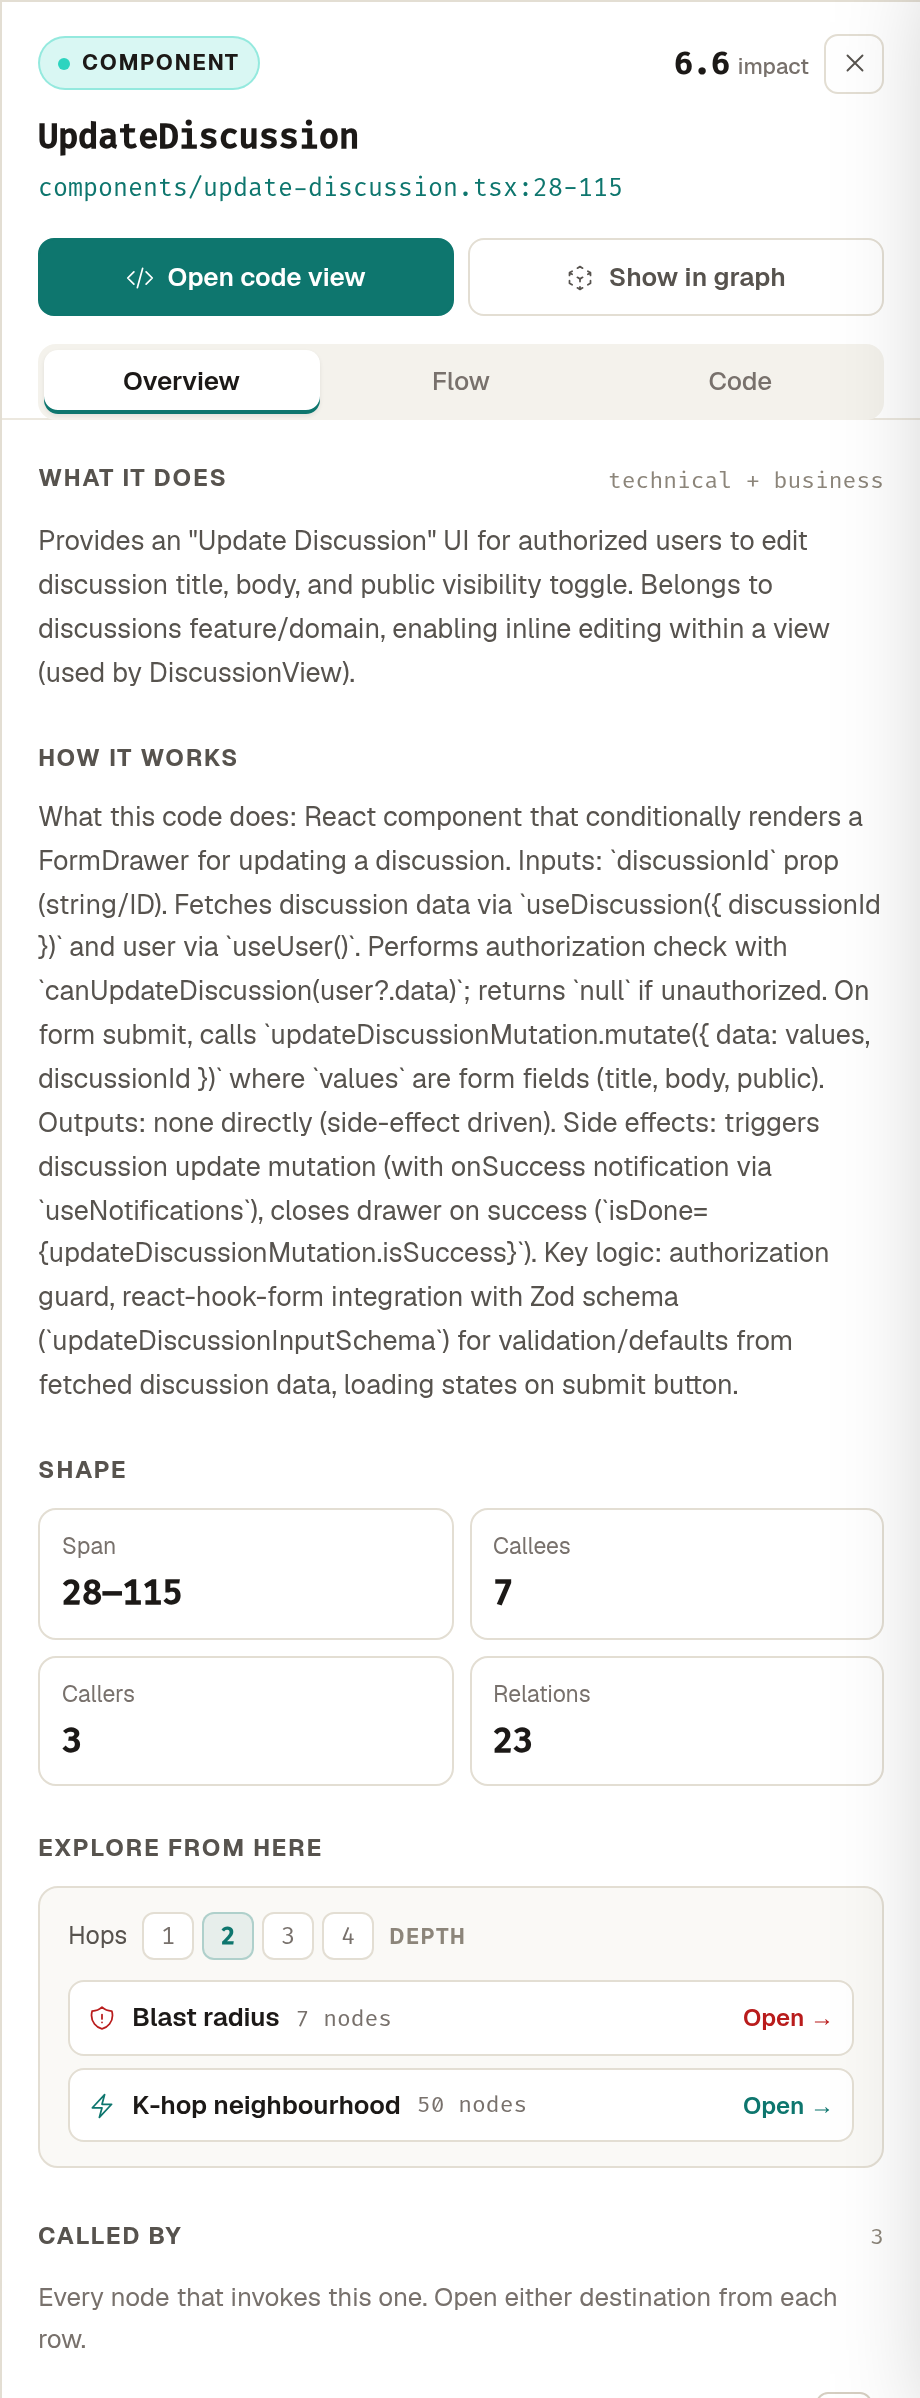
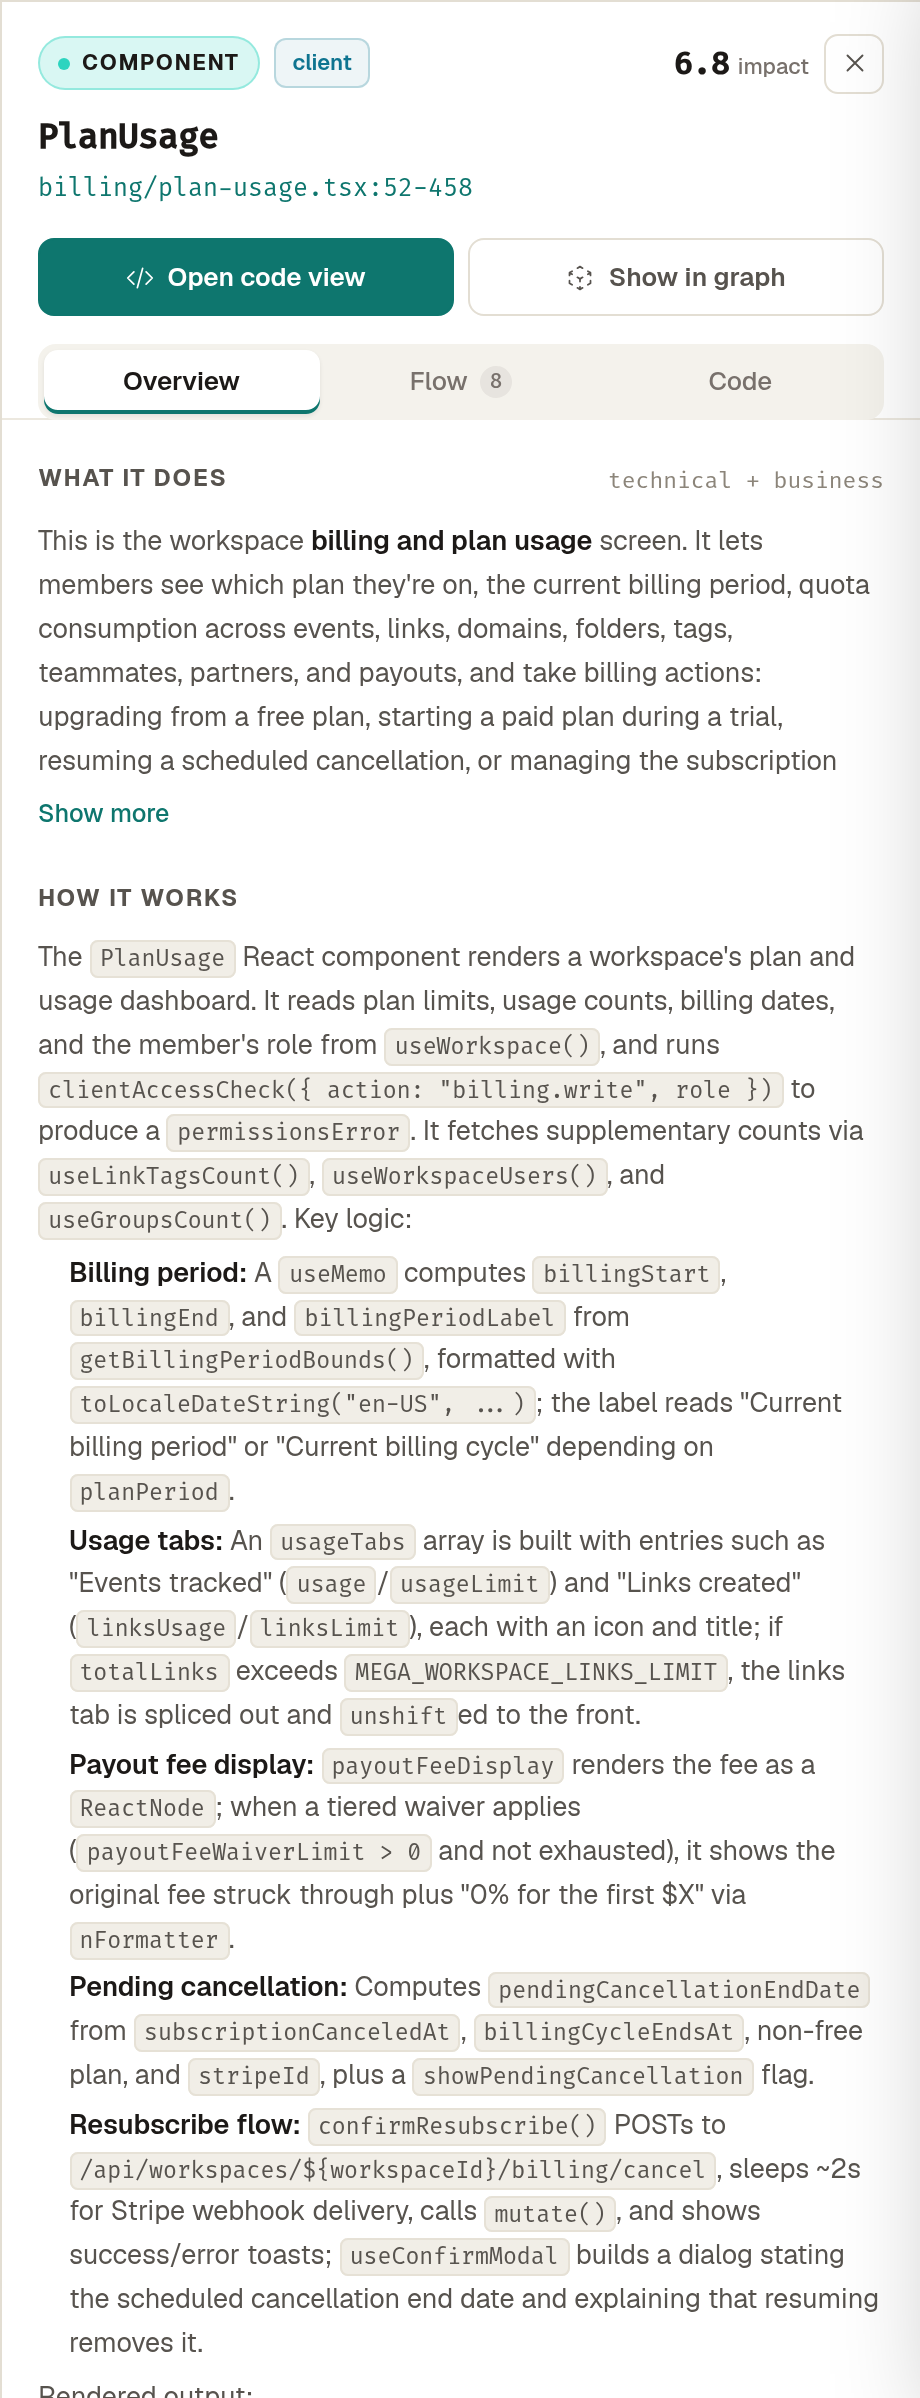
docs: flow, call-map and caller screenshots from real analyses
The flow shot came from a graph whose call order predated callOrder/v1, so
it showed the empty state. Re-shot from graphs that carry both summaries
and call order: PlanUsage (dub) for the panel and ordered flow, and
runSummarization (devlens-engine) for the twenty-step flow. Adds the code
map (badges pinned to the lines that call) and a caller card, and drops
the unused security shot.

diff --git a/README.md b/README.md
@@ -208,7 +208,7 @@ DevLens ships a local web app over the same graph the CLI and MCP server read. N
 
 ### What you can actually do in it
 
-| | |
+| Feature | What it gives you |
 | :-- | :-- |
 | **Read the map, not the folder tree** | Every file, component, hook, route, class and test is a node sized by importance. The highest-impact nodes keep their labels at overview zoom, so the first screen is a summary of where the weight sits — not an unlabelled hairball. |
 | **Ask a node what it is** | Click any node for its business and technical summary, then the **execution pipeline**: the calls its body makes, numbered in the order it makes them, with `await`, `loop`, `maybe` and `×N` markers. |
@@ -229,6 +229,10 @@ DevLens ships a local web app over the same graph the CLI and MCP server read. N
 </tr>
 </table>
 
+![runSummarization in devlens-engine: 20 resolved calls in body order](assets/screenshots/09-engine-flow.png)
+
+*The Flow tab on a real function (`runSummarization` in devlens-engine): twenty resolved calls, numbered in the order the body makes them. Nothing is collapsed into "and 18 more".*
+
 ![Blast radius — what depends on this node, two hops back](assets/screenshots/04-blast-radius.png)
 
 <table>
@@ -239,6 +243,17 @@ DevLens ships a local web app over the same graph the CLI and MCP server read. N
 <tr>
 <td><em>Code view: source cards for a function and the calls it makes. Click a badge to open the callee; <b>Called by</b> walks back up.</em></td>
 <td><em>Upstream: who reaches this node, expandable up the call chain.</em></td>
+</tr>
+</table>
+
+<table>
+<tr>
+<td width="50%"><img src="assets/screenshots/07b-code-map.png" alt="Call badges aligned to the lines that make them" /></td>
+<td width="50%"><img src="assets/screenshots/07c-code-view-caller.png" alt="A caller opened as a second card" /></td>
+</tr>
+<tr>
+<td><em>Every call badge sits on the line that makes the call, with its ordering flags — <code>await</code>, <code>maybe</code>, <code>×N</code>. Click it to open the callee as a card.</em></td>
+<td><em>Walk the stack in place: a caller opens to the left of the card, arrow pointing the way the call goes.</em></td>
 </tr>
 </table>
 
@@ -399,7 +414,7 @@ The same operations are available over HTTP: `POST /api/reindex` and `POST /api/
 <img src="assets/screenshots/01-home.png" alt="Analyzed repositories" width="49%" />
 <img src="assets/screenshots/05-filters.png" alt="Filter control centre" width="49%" />
 <br/>
-<em>Repository list · filter control centre with live counts</em>
+<em>Repository list · filter control centre with live counts from your graph</em>
 </div>
 
 <br/>
